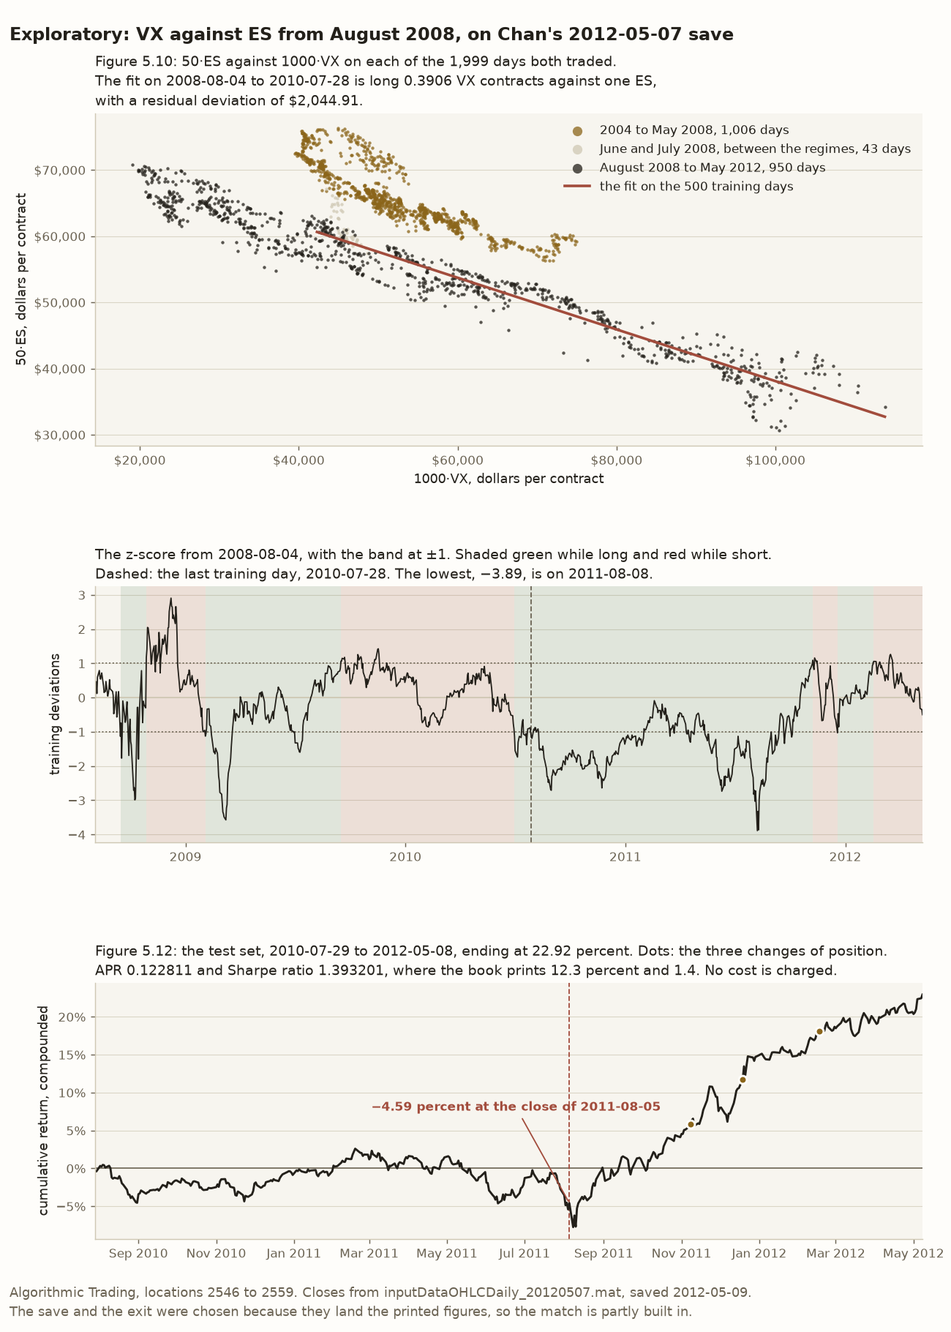
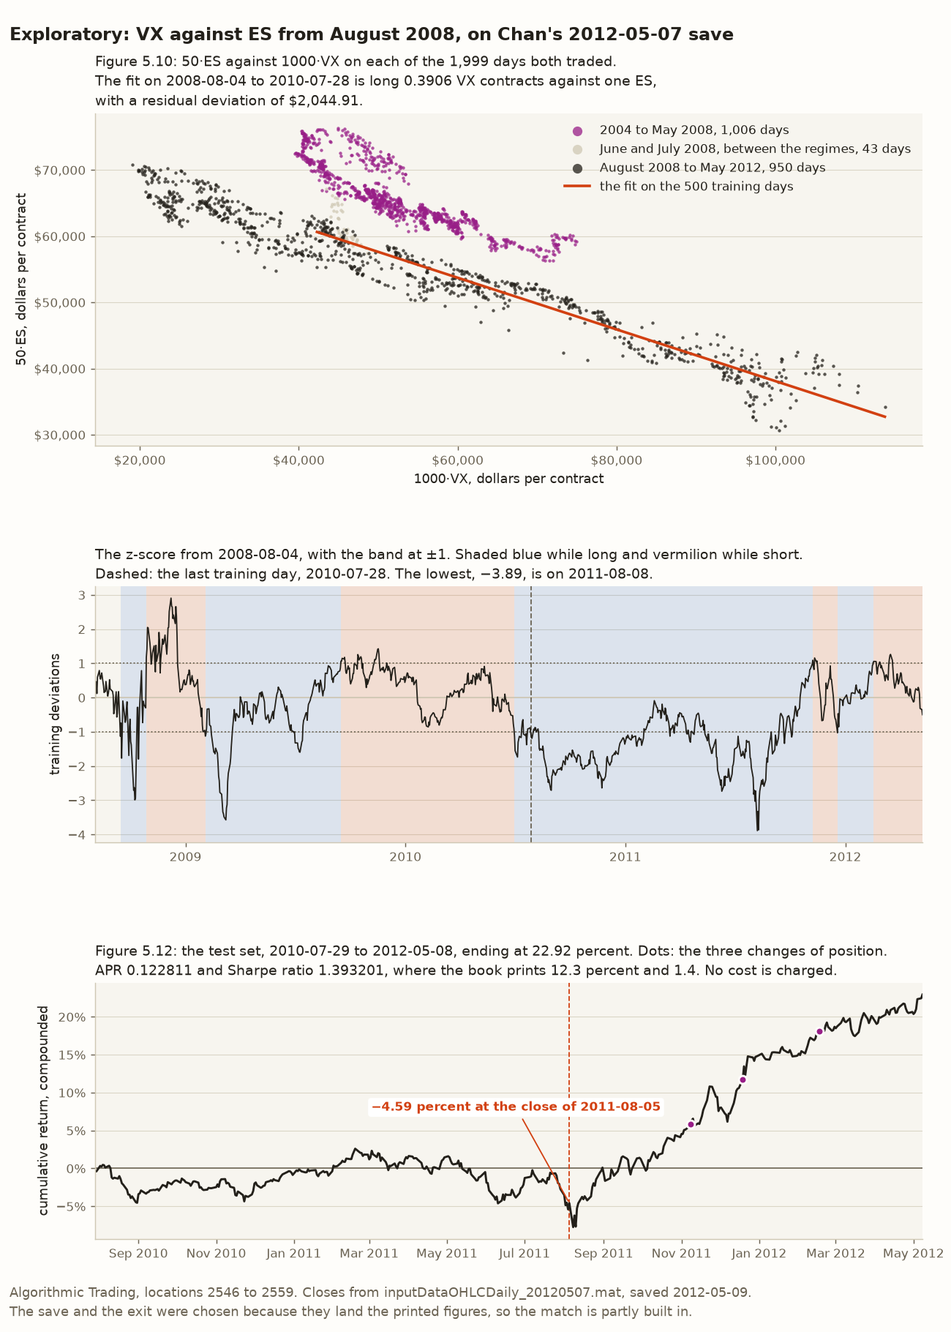
feat(vx-es): draw the VX against ES post's figures in the colour-blind-safe palette
The chart and both whiteboard sketches now take berry, blue and vermilion from
chan.palette instead of the shared brass, green and red, and the sketches map
their frames onto chan.palette.INKS. The downgrade label in the returns panel
sits on a white box, because the vermilion reaches only 4.30 to 1 on the axes'
ground. The figures are redrawn, and the alt text, headings, docstrings and
tests name the new colours.

Part of #656

diff --git a/tests/test_vx_es_whiteboard.py b/tests/test_vx_es_whiteboard.py
@@ -42,11 +42,12 @@ import numpy as np
 import pytest
 from PIL import Image
 
+from chan import palette, regime_figure, vx_es
 from chan import usdcad_tests_whiteboard as whiteboard
-from chan import vx_es
 from chan import vx_es_whiteboard as sketches
+from chan.palette import ACCENT, GOOD, LOST
 from chan.paths import FIGURES_DIR, REPO_ROOT
-from chan.regime_figure import ACCENT, GOOD, INK, LOST, MUTED
+from chan.regime_figure import INK, MUTED
 from chan.usdcad_tests_whiteboard import (
     HEIGHT,
     HOLD_MS,
@@ -194,11 +195,11 @@ class TestTheScenes:
             for stroke in scene.strokes:
                 assert stroke.points >= stroke.frames, (scene.title, stroke.gid)
 
-    def test_every_pale_tint_has_a_green_edge(self, every) -> None:
-        """Neither sketch draws a tint today. One that does would need the
-        green edge the equity seasonals module's ``_tinted`` draws, since the
-        tint alone stands 1.29 to 1 against the board."""
-        tints = [fill for scene in every for fill in scene.fills if fill.color == whiteboard.TINT]
+    def test_every_pale_tint_has_a_blue_edge(self, every) -> None:
+        """Neither sketch draws a tint today. One that does would need a blue
+        edge like the green one the equity seasonals module's ``_tinted``
+        draws, since the tint alone stands 1.31 to 1 against the board."""
+        tints = [fill for scene in every for fill in scene.fills if fill.color == palette.TINT]
         assert tints == []
 
 
@@ -284,6 +285,30 @@ class TestTheGifs:
             assert [(f.done, f.partial) for f in frames] == [
                 (f.done, f.partial) for f in timeline(scene)
             ]
+
+    def test_each_draws_in_the_colour_blind_safe_inks(self, gifs) -> None:
+        """Every ink of :data:`chan.palette.INKS` is in each GIF's colours and
+        the shared brass, green and red are not, so a frame quantized onto the
+        renderer's default inks fails here on any machine."""
+        rgb = {
+            name: tuple(int(c[i : i + 2], 16) for i in (1, 3, 5))
+            for name, c in (
+                ("berry", ACCENT),
+                ("blue", GOOD),
+                ("vermilion", LOST),
+                ("brass", regime_figure.ACCENT),
+                ("green", regime_figure.GOOD),
+                ("red", regime_figure.LOST),
+            )
+        }
+        for path in gifs:
+            with Image.open(path) as image:
+                flat = image.getpalette()
+            colours = {tuple(flat[i : i + 3]) for i in range(0, len(flat), 3)}
+            for name in ("berry", "blue", "vermilion"):
+                assert rgb[name] in colours, (path.name, name)
+            for name in ("brass", "green", "red"):
+                assert rgb[name] not in colours, (path.name, name)
 
     def test_each_is_under_1_mb(self, gifs) -> None:
         for path in gifs:
@@ -444,14 +469,14 @@ class TestTheShiftSketch:
         for cloud in ("save", "same", "uneven"):
             assert gids.index(cloud) + 1 == gids.index(f"{cloud}-fit"), cloud
 
-    def test_the_brass_copy_moves_every_dot_right_by_one_amount(self, every) -> None:
+    def test_the_berry_copy_moves_every_dot_right_by_one_amount(self, every) -> None:
         scene = every[0]
         save, same = _stroke(scene, "save"), _stroke(scene, "same")
         assert same.y == pytest.approx(save.y)
         assert same.x - save.x == pytest.approx([SAME] * save.points)
         assert SAME > 0
 
-    def test_the_red_copy_moves_the_dots_by_uneven_amounts(self, every) -> None:
+    def test_the_vermilion_copy_moves_the_dots_by_uneven_amounts(self, every) -> None:
         scene = every[0]
         save, uneven = _stroke(scene, "save"), _stroke(scene, "uneven")
         assert uneven.y == pytest.approx(save.y)
@@ -467,20 +492,20 @@ class TestTheShiftSketch:
             assert line.y == pytest.approx(intercept + slope * line.x), cloud
             assert line.x.min() < dots.x.min() and line.x.max() > dots.x.max(), cloud
 
-    def test_the_brass_fit_is_parallel_to_the_black_and_sits_elsewhere(self, every) -> None:
+    def test_the_berry_fit_is_parallel_to_the_black_and_sits_elsewhere(self, every) -> None:
         scene = every[0]
-        black, brass = (_stroke(scene, gid) for gid in ("save-fit", "same-fit"))
+        black, berry = (_stroke(scene, gid) for gid in ("save-fit", "same-fit"))
         black_slope = np.polyfit(black.x, black.y, 1)[0]
-        brass_slope = np.polyfit(brass.x, brass.y, 1)[0]
-        assert brass_slope == pytest.approx(black_slope, abs=1e-9)
+        berry_slope = np.polyfit(berry.x, berry.y, 1)[0]
+        assert berry_slope == pytest.approx(black_slope, abs=1e-9)
         assert fit(SAVE_X + SAME, SAVE_Y)[0] != pytest.approx(fit(SAVE_X, SAVE_Y)[0])
 
-    def test_the_red_fit_tilts_enough_to_see(self, every) -> None:
+    def test_the_vermilion_fit_tilts_enough_to_see(self, every) -> None:
         """A tilt large enough to see on a phone. The sketch is schematic, and the
         run's 3.6 percent would draw as about one degree."""
         scene = every[0]
-        black, red = (_stroke(scene, gid) for gid in ("save-fit", "uneven-fit"))
-        change = np.polyfit(red.x, red.y, 1)[0] / np.polyfit(black.x, black.y, 1)[0] - 1
+        black, vermilion = (_stroke(scene, gid) for gid in ("save-fit", "uneven-fit"))
+        change = np.polyfit(vermilion.x, vermilion.y, 1)[0] / np.polyfit(black.x, black.y, 1)[0] - 1
         assert 0.15 < abs(change) < 0.35
 
     def test_one_constant_on_every_vx_close_moves_only_the_intercept(self) -> None:
@@ -504,14 +529,18 @@ class TestTheShiftSketch:
         assert "A grey axis across is labelled “1000·VX” and a grey axis up" in alt
         assert "Black dots fall from upper left to lower right" in alt
         assert "each moved right by the same amount" in alt
+        assert "Berry copies of the same dots" in alt and "a berry fitted line" in alt
+        assert "Vermilion copies" in alt and "a vermilion fitted line" in alt
         assert "parallel to the black one" in alt
         assert "each moved right by a different amount" in alt
         assert "less steep than the other two" in alt
 
-    def test_the_red_fit_is_less_steep_as_the_alt_text_says(self, every) -> None:
+    def test_the_vermilion_fit_is_less_steep_as_the_alt_text_says(self, every) -> None:
         scene = every[0]
-        black, red = (_stroke(scene, gid) for gid in ("save-fit", "uneven-fit"))
-        assert abs(np.polyfit(red.x, red.y, 1)[0]) < abs(np.polyfit(black.x, black.y, 1)[0])
+        black, vermilion = (_stroke(scene, gid) for gid in ("save-fit", "uneven-fit"))
+        assert abs(np.polyfit(vermilion.x, vermilion.y, 1)[0]) < abs(
+            np.polyfit(black.x, black.y, 1)[0]
+        )
 
 
 # --- Lesson 3: two ways to close a position -----------------------------------
@@ -684,9 +713,9 @@ class TestTheExitsSketch:
         ) in alt
         assert "then turns back up to end just above it" in alt
         assert -1.0 < KNOTS[-1][1] < -0.75
-        assert "a green bar marked “long” from the dip below −1 to the rise above +1" in alt
-        assert "a red bar marked “short” from there to the next dip below −1" in alt
-        assert "a green bar marked “long” from the dip below −1 to the crossing of 0" in alt
-        assert "a red bar marked “short” until the path falls back through 0" in alt
+        assert "a blue bar marked “long” from the dip below −1 to the rise above +1" in alt
+        assert "a vermilion bar marked “short” from there to the next dip below −1" in alt
+        assert "a blue bar marked “long” from the dip below −1 to the crossing of 0" in alt
+        assert "a vermilion bar marked “short” until the path falls back through 0" in alt
         assert alt.count("short thin grey stretch marked “flat”") == 1
         assert alt.count("short grey stretch marked “flat”") == 1

diff --git a/src/chan/vx_es_figures.py b/src/chan/vx_es_figures.py
@@ -12,13 +12,19 @@ for it. :func:`make_vx_es_figure` draws three panels after the book's Figures
    The fitted line is drawn over the training days' range of VX.
 2. The z-score from the anchor, 2008-08-04, with the band at ±1 and the last
    training day marked. Each run of days the band holds one position is
-   shaded, green long and red short. Figure 5.11 draws the portfolio in
+   shaded, blue long and vermilion short. Figure 5.11 draws the portfolio in
    dollars, and this panel draws it in training deviations so the band shows.
 3. The test set's compounded cumulative return, which the book prints as
    Figure 5.12, with the three changes of position and 2011-08-05 marked.
    Standard and Poor's announced its downgrade of the U.S. credit rating after
    that day's close, and location 2559 says the trade "was particularly
    profitable" from around then.
+
+The colours are :mod:`chan.palette`'s, which a colour-blind reader can tell
+apart: berry for the first regime and the changes of position, blue for a
+long and vermilion for a short, the fit and the downgrade. Inside the axes the
+vermilion reaches only 4.30 to 1 against the ground, short of the bar for
+text, so the downgrade's label sits on a white box.
 
 Every value comes from :func:`chan.vx_es.read_legs` and
 :func:`chan.vx_es.vx_es`, the run's own path, so the scale-break guard runs
@@ -39,8 +45,9 @@ from matplotlib.figure import Figure
 from matplotlib.ticker import FuncFormatter, PercentFormatter
 
 from chan.coin_flip_figures import _dollars, _plain_text, _save, _style, _title
+from chan.palette import ACCENT, GOOD, LOST
 from chan.paths import FIGURES_DIR
-from chan.regime_figure import ACCENT, GOOD, INK, LOST, MUTED, RULE, SURFACE
+from chan.regime_figure import INK, MUTED, RULE, SURFACE
 from chan.series import WindowCrossesScaleBreak
 from chan.vintage import VintageEntry, VintageUnavailable
 from chan.vx_es import (
@@ -188,8 +195,8 @@ def _zscore_panel(ax, result: VxEs) -> None:
     ax.set_ylabel("training deviations", color=INK, fontsize=10)
     _heading(
         ax,
-        f"The z-score from {t.days[0].date()}, with the band at ±{BAND}. Shaded green while "
-        "long and red while short.\n"
+        f"The z-score from {t.days[0].date()}, with the band at ±{BAND}. Shaded blue while "
+        "long and vermilion while short.\n"
         f"Dashed: the last training day, {result.hedge.days[-1].date()}. "
         f"The lowest, {signed(t.zscore[low])}, is on {t.days[low].date()}.",
     )
@@ -224,6 +231,8 @@ def _returns_panel(ax, result: VxEs) -> None:
         arrowprops={"arrowstyle": "-", "color": LOST, "lw": 1.0},
         fontsize=9.5,
         fontweight="bold",
+        # The vermilion falls short of 4.5 to 1 on the axes' ground, and clears it on white.
+        bbox={"boxstyle": "round,pad=0.25", "fc": "white", "ec": "none"},
         gid="downgrade-label",
     )
     ax.set_xlim(cumret.index[0], cumret.index[-1])

diff --git a/tests/test_vx_es_figures.py b/tests/test_vx_es_figures.py
@@ -24,8 +24,9 @@ import pytest
 from matplotlib.dates import date2num
 
 from chan import vx_es_figures
+from chan.palette import ACCENT, GOOD, LOST
 from chan.paths import FIGURES_DIR
-from chan.regime_figure import ACCENT, GOOD, INK, LOST, RULE
+from chan.regime_figure import INK, RULE
 from chan.series import WindowCrossesScaleBreak
 from chan.vintage import VintageUnavailable
 from chan.vx_es import ES, VX, position_changes, read_legs, vx_es
@@ -207,7 +208,7 @@ class TestTheZScore:
         ]
 
     def test_each_shade_runs_from_an_entry_to_the_next(self, axes, result) -> None:
-        """Green for a long and red for a short, with the flat start left unshaded."""
+        """Blue for a long and vermilion for a short, with the flat start left unshaded."""
         runs = holdings(result.trade)
         shades = [p for p in axes["z"].patches if p.get_gid() in ("long", "short")]
         held = [r for r in runs if r.units]
@@ -225,9 +226,9 @@ class TestTheZScore:
 
     def test_the_heading_names_the_band_and_the_lowest_day(self, axes) -> None:
         assert _title(axes["z"]) == (
-            "The z-score from 2008-08-04, with the band at ±1. Shaded green while long and red "
-            "while short.\nDashed: the last training day, 2010-07-28. The lowest, −3.89, is on "
-            "2011-08-08."
+            "The z-score from 2008-08-04, with the band at ±1. Shaded blue while long and "
+            "vermilion while short.\nDashed: the last training day, 2010-07-28. The lowest, "
+            "−3.89, is on 2011-08-08."
         )
 
 
@@ -269,6 +270,13 @@ class TestTheCumulativeReturn:
         label = _by_gid(axes["returns"].texts)["downgrade-label"]
         assert label.get_text() == "−4.59 percent at the close of 2011-08-05"
         assert label.xy == (DOWNGRADE, cumulative_return(result.trade).loc[DOWNGRADE])
+
+    def test_the_downgrade_label_is_vermilion_on_a_white_box(self, axes) -> None:
+        """The vermilion reaches 4.30 to 1 on the axes' ground, short of 4.5,
+        so the label reads only on the box behind it."""
+        label = _by_gid(axes["returns"].texts)["downgrade-label"]
+        assert label.get_color() == LOST
+        assert label.get_bbox_patch().get_facecolor() == (1.0, 1.0, 1.0, 1.0)
 
     def test_the_heading_sets_the_figures_beside_the_book_s(self, axes) -> None:
         assert _title(axes["returns"]) == (

diff --git a/src/chan/vx_es_whiteboard.py b/src/chan/vx_es_whiteboard.py
@@ -36,7 +36,13 @@ next reaches +1, and after +1 it next reaches −1, so the strips alternate
 here, which the rule does not promise.
 
 The drawing machinery is :mod:`chan.usdcad_tests_whiteboard`'s, reused rather
-than copied, so these GIFs share that post's look, frame rate and colours.
+than copied, so these GIFs share that post's look and frame rate. Their
+colours are :mod:`chan.palette`'s, which a colour-blind reader can tell apart,
+so :func:`render` maps each frame onto :data:`chan.palette.INKS`: berry for
+the copy shifted by one amount, blue for a long, and vermilion for the uneven
+copy and a short. The grey of a flat stretch sits only 7.5 from the vermilion
+under protanopia, so each stretch also carries its word, and a flat one is
+drawn thinner.
 Each sketch carries more than a reader takes in at that post's pace, so both
 are in :data:`PACED`, and :func:`sketch_timeline` holds each of their labels
 longer and their finished drawings for twelve seconds, as
@@ -59,8 +65,9 @@ from pathlib import Path
 import numpy as np
 from scipy.interpolate import PchipInterpolator
 
+from chan.palette import ACCENT, GOOD, INKS, LOST
 from chan.paths import FIGURES_DIR
-from chan.regime_figure import ACCENT, GOOD, INK, LOST, MUTED
+from chan.regime_figure import INK, MUTED
 from chan.usdcad_tests_whiteboard import (
     Frame,
     Label,
@@ -230,8 +237,8 @@ WORD_INK = {"long": GOOD, "short": LOST, "flat": MUTED}
 
 
 def _strip(rule: str, name: str, y: float) -> list[Stroke | Label]:
-    """One rule's bar along the path: a thick green stretch while long, a thick
-    red one while short and a thin grey one while flat, each with its word."""
+    """One rule's bar along the path: a thick blue stretch while long, a thick
+    vermilion one while short and a thin grey one while flat, each with its word."""
     steps: list[Stroke | Label] = []
     for k, (suffix, word, start, end) in enumerate(HELD[rule]):
         x0 = CROSSINGS[start]
@@ -320,7 +327,7 @@ def scenes() -> tuple[Scene, ...]:
 
 def _write(scene: Scene, folder: Path) -> Path:
     frames = sketch_timeline(scene)
-    first, *rest = render(scene, frames)
+    first, *rest = render(scene, frames, INKS)
     path = folder / gif_name(scene)
     first.save(
         path,

diff --git a/blog/vx-es-lessons.md b/blog/vx-es-lessons.md
@@ -64,7 +64,7 @@ The specification has three parts.
 
 The top panel of the chart below redraws the book’s Figure 5.10 from the 2012-05-07 save. The two regimes sit on two separate lines, and the fit runs along the second.
 
-![Three panels stacked. The top panel is a scatter of 50·ES against 1000·VX, both in dollars per contract, on the 1,999 days both traded. Days from 2004 to May 2008, in brass, form a band high on the panel, with ES between about 56,000 and 76,000 dollars while VX runs from about 40,000 to 75,000. Days from August 2008 to May 2012, in black, form a lower line falling from about 70,000 dollars of ES at 20,000 dollars of VX to about 38,000 at 100,000. A few pale grey days from June and July 2008 sit between the two. A red line, the fit on the 500 training days, runs along the lower group. The middle panel plots the z-score from August 2008 to May 2012, with dotted lines at plus and minus one and a dashed line at 2010-07-28. Its background is shaded green while the position is long and red while it is short. Right of the dashed line it stays shaded green and mostly below minus one until November 2011, dipping to its lowest, −3.89, on 2011-08-08, then switches between red, green and red. The bottom panel plots the test set’s cumulative return. It wanders between about minus 5 and plus 3 percent until July 2011, falls to about minus 8 percent just after a dashed red line at 2011-08-05 labelled minus 4.59 percent, and then climbs to 22.92 percent by May 2012, with three dots where the position changes. The title calls the chart exploratory, and the note names the 2012-05-07 save and says the save and the exit were chosen because they land the printed figures.](../docs/figures/vx_es.png)
+![Three panels stacked. The top panel is a scatter of 50·ES against 1000·VX, both in dollars per contract, on the 1,999 days both traded. Days from 2004 to May 2008, in berry, form a band high on the panel, with ES between about 56,000 and 76,000 dollars while VX runs from about 40,000 to 75,000. Days from August 2008 to May 2012, in black, form a lower line falling from about 70,000 dollars of ES at 20,000 dollars of VX to about 38,000 at 100,000. A few pale grey days from June and July 2008 sit between the two. A vermilion line, the fit on the 500 training days, runs along the lower group. The middle panel plots the z-score from August 2008 to May 2012, with dotted lines at plus and minus one and a dashed line at 2010-07-28. Its background is shaded blue while the position is long and vermilion while it is short. Right of the dashed line it stays shaded blue and mostly below minus one until November 2011, dipping to its lowest, −3.89, on 2011-08-08, then switches between vermilion, blue and vermilion. The bottom panel plots the test set’s cumulative return. It wanders between about minus 5 and plus 3 percent until July 2011, falls to about minus 8 percent just after a dashed vermilion line at 2011-08-05 labelled minus 4.59 percent, and then climbs to 22.92 percent by May 2012, with three dots where the position changes. The title calls the chart exploratory, and the note names the 2012-05-07 save and says the save and the exit were chosen because they land the printed figures.](../docs/figures/vx_es.png)
 
 *The book’s Figures 5.10 to 5.12 redrawn on Chan’s 2012-05-07 save: the two regimes, the z-score with its band, and the test set’s cumulative return.*
 
@@ -104,7 +104,7 @@ On the 2012-05-17 save the specification trains and tests on the same dates as o
 
 [The post on GLD and GDX](https://github.com/l3a0/quantitative-trading/blob/main/blog/gld-gdx-cointegration-lessons.md#3-adjusted-close-is-not-a-fixed-number) found a hedge ratio drifting with the date its prices were downloaded, as the vendor folded years of dividends into its dividend-adjusted closing prices. A continuous future can do the same thing within days. The later save’s VX and ES closes also give a different hedge. A single roll would shift every earlier close of one leg by one amount. That moves every dot of the scatter the same distance, so the slope, and with it the hedge, stays where it was. Between the two saves the closes of the same days shift by uneven amounts, and those shifts change the slope. So a single roll explains how a history like this can change, but not why the hedge moved here. Nothing in this repository measured how Chan’s data source rebuilt the two legs.
 
-![An animated whiteboard sketch titled “One shift slides, it does not tilt”, drawn slowly stroke by stroke. It is schematic and carries no figures from the run. A grey axis across is labelled “1000·VX” and a grey axis up is labelled “50·ES”. Black dots fall from upper left to lower right, and a black line fitted through them is labelled “one save”. Brown copies of the same dots, each moved right by the same amount, follow with a brown fitted line parallel to the black one, labelled “every close + the same amount: same slope”. Red copies, each moved right by a different amount, come last, with a red fitted line, through dots spread wider, visibly less steep than the other two, labelled “uneven shifts: a different slope”. The finished drawing holds for twelve seconds.](../docs/figures/vx_es_sketch_one_shift.gif)
+![An animated whiteboard sketch titled “One shift slides, it does not tilt”, drawn slowly stroke by stroke. It is schematic and carries no figures from the run. A grey axis across is labelled “1000·VX” and a grey axis up is labelled “50·ES”. Black dots fall from upper left to lower right, and a black line fitted through them is labelled “one save”. Berry copies of the same dots, each moved right by the same amount, follow with a berry fitted line parallel to the black one, labelled “every close + the same amount: same slope”. Vermilion copies, each moved right by a different amount, come last, with a vermilion fitted line, through dots spread wider, visibly less steep than the other two, labelled “uneven shifts: a different slope”. The finished drawing holds for twelve seconds.](../docs/figures/vx_es_sketch_one_shift.gif)
 
 ### The script Chan published
 
@@ -141,7 +141,7 @@ The book describes the entry and is silent about the exit. The table below compa
 
 Chan’s script for Example 3.2, `bollinger.m`, closes each position when the z-score crosses zero. That example trades GLD, a gold fund, against USO, an oil fund, with a band of the same kind, which Chan calls a Bollinger band. [The post on Bollinger bands](https://github.com/l3a0/quantitative-trading/blob/main/blog/bollinger-band-lessons.md#the-rule-and-the-file) reproduces that example to six digits, exit at zero included, and [the post on price spreads](https://github.com/l3a0/quantitative-trading/blob/main/blog/price-spread-ratio-lessons.md#lesson-5-a-return-that-cannot-see-its-own-scale) mentions it in its fifth lesson. With that exit, this trade earns 6.8 percent a year rather than 12.3.
 
-![An animated whiteboard sketch titled “Two ways to close a position”, drawn slowly stroke by stroke. It is schematic and carries no figures from the run. Three grey dashed lines are labelled “+1”, “0” and “−1”. A black z-score path starts just above 0, dips below −1, climbs back through 0, rises above +1, falls back through 0 and dips below −1 again, then turns back up to end just above it. Beneath it, two strips follow the same path. The first, labelled “hold until the opposite band (this run)”, is a green bar marked “long” from the dip below −1 to the rise above +1, a red bar marked “short” from there to the next dip below −1, and a green bar marked “long” after it. The second, labelled “close at the mean (bollinger.m)”, is a green bar marked “long” from the dip below −1 to the crossing of 0, a short thin grey stretch marked “flat” until the rise above +1, a red bar marked “short” until the path falls back through 0, another short grey stretch marked “flat” until the next dip below −1, and a green bar marked “long” after it. The finished drawing holds for twelve seconds.](../docs/figures/vx_es_sketch_two_exits.gif)
+![An animated whiteboard sketch titled “Two ways to close a position”, drawn slowly stroke by stroke. It is schematic and carries no figures from the run. Three grey dashed lines are labelled “+1”, “0” and “−1”. A black z-score path starts just above 0, dips below −1, climbs back through 0, rises above +1, falls back through 0 and dips below −1 again, then turns back up to end just above it. Beneath it, two strips follow the same path. The first, labelled “hold until the opposite band (this run)”, is a blue bar marked “long” from the dip below −1 to the rise above +1, a vermilion bar marked “short” from there to the next dip below −1, and a blue bar marked “long” after it. The second, labelled “close at the mean (bollinger.m)”, is a blue bar marked “long” from the dip below −1 to the crossing of 0, a short thin grey stretch marked “flat” until the rise above +1, a vermilion bar marked “short” until the path falls back through 0, another short grey stretch marked “flat” until the next dip below −1, and a blue bar marked “long” after it. The finished drawing holds for twelve seconds.](../docs/figures/vx_es_sketch_two_exits.gif)
 
 This run carries the training position into the test. On 2010-07-28, the last training day, the z-score is −1.041, so the position is already long. `VX_ES_rollreturn.m` computes a return for every day of its data, then keeps only the days after the 500 training days. So its first test day earns on the position held at the close of the last training day, and this run does the same. Starting instead with no position on the first test day lands the Sharpe ratio and misses the APR, at 12.5 percent.
 
